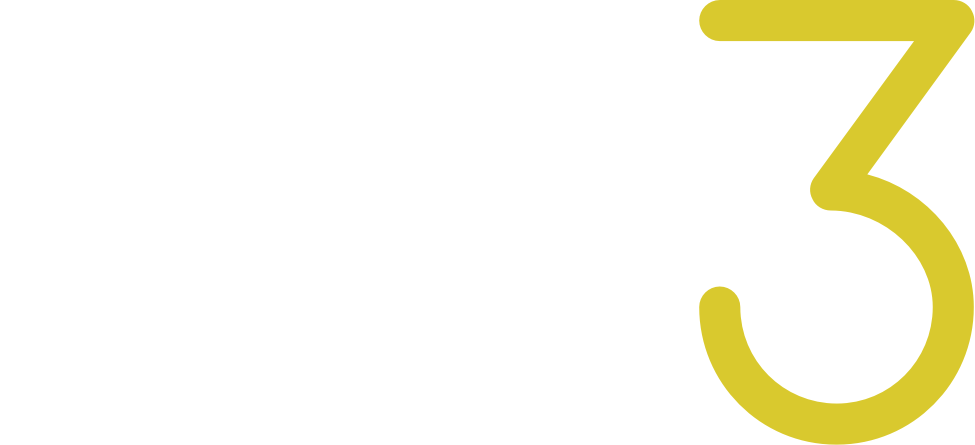
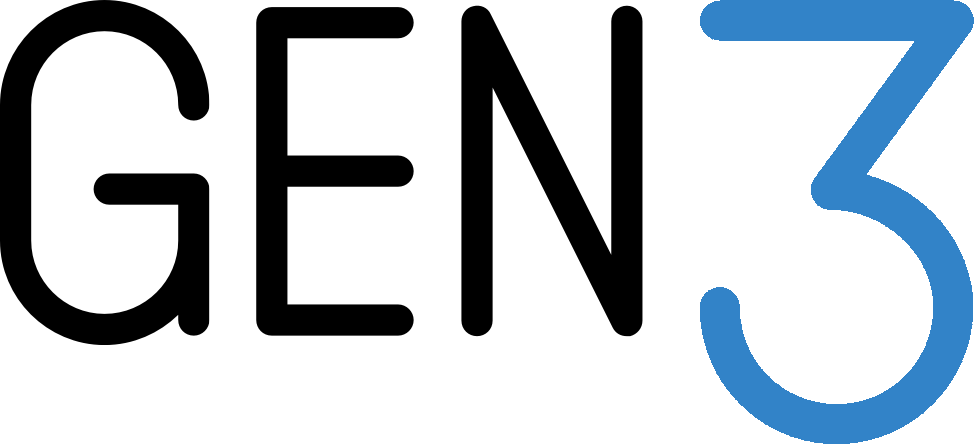
brh

diff --git a/brh.data-commons.org/dashboard/Public/index.html b/brh.data-commons.org/dashboard/Public/index.html
@@ -182,7 +182,7 @@
                         </p>
                         <blo>
                             <a href="https://ctds.uchicago.edu/gen3">
-                                <img src="img/gen3blue.png" alt="Gen3_logo" style="width:10%">
+                                <img src="img/gen3.png" alt="Gen3_logo" style="width:10%">
                             </a>
                             </p>
                             <blockquote>
@@ -2183,7 +2183,7 @@
                                 <p>
                                     Powered by <br>
                                     <a href="https://ctds.uchicago.edu/gen3">
-                                        <img src="img/gen3blue.png" alt="Gen3_logo" style="width:10%">
+                                        <img src="img/gen3.png" alt="Gen3_logo" style="width:10%">
                                     </a>
                                 </p>
 
@@ -2198,8 +2198,7 @@
         <div class='footer'>
             <div class="footer__logo-area">
                 <a href="https://ctds.uchicago.edu/gen3">
-                    <!-- <img class='footer__img' src='img/gen3.png' /> -->
-                    <img class='footer__img' src='img/gen3blue.png' />
+                    <img class='footer__img' src='img/gen3.png' />
                 </a>
                 <a href="https://ctds.uchicago.edu/">
                     <img class='footer__img' id="createdby" src='img/ctds logo _ screen _ horizontal _ RGB colour.png' />

diff --git a/brh.data-commons.org/dashboard/Public/list_of_commons.html b/brh.data-commons.org/dashboard/Public/list_of_commons.html
@@ -170,8 +170,7 @@
         <div class='footer'>
             <div class="footer__logo-area">
                 <a href="https://ctds.uchicago.edu/gen3">
-                    <!-- <img class='footer__img' src='img/gen3.png' /> -->
-                    <img class='footer__img' src='img/gen3blue.png' />
+                    <img class='footer__img' src='img/gen3.png' />
                 </a>
                 <a href="https://ctds.uchicago.edu/">
                     <img class='footer__img' id="createdby"
